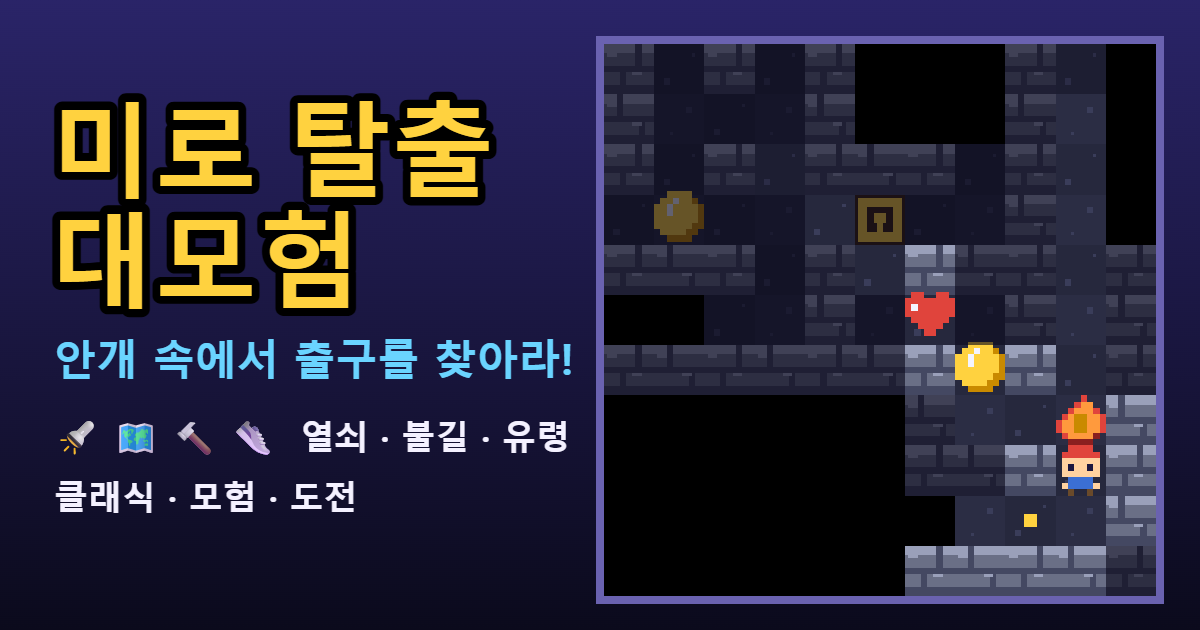
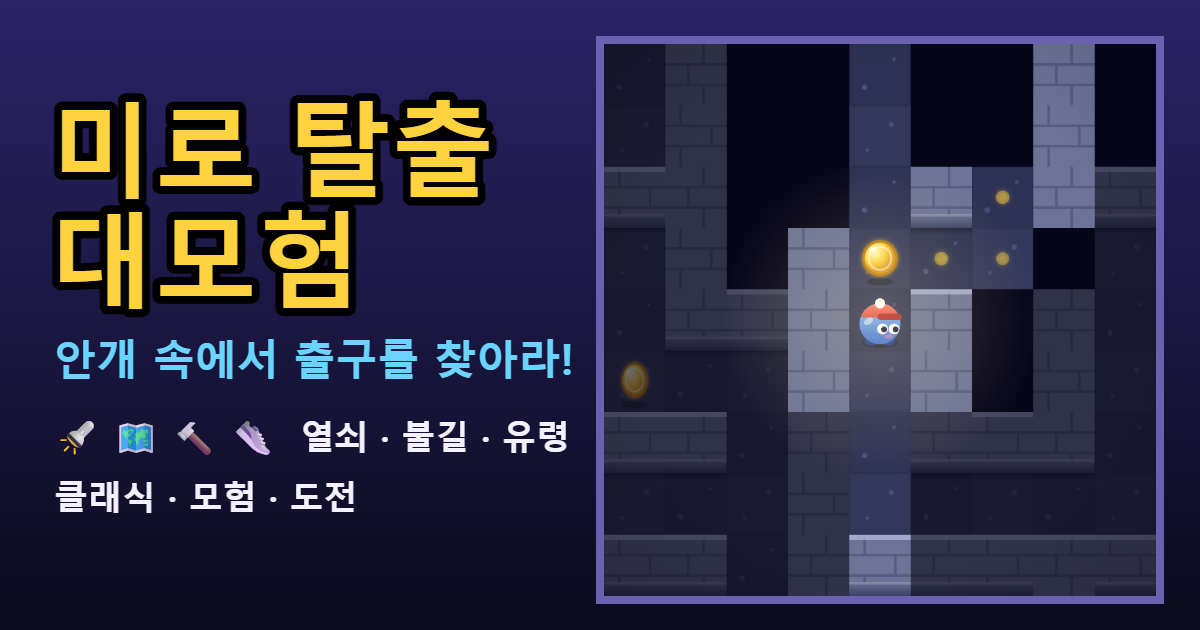
미로 탈출 대모험: 도트를 부드러운 입체 벡터 그래픽으로 교체, 미니맵 추가, 화면 9칸으로 확대

Changed region(s): [[0.4933, 0.0603, 0.9867, 0.9651], [0.925, 0.5429, 0.9867, 0.573]]

diff --git a/games/maze-quest/maze-quest.html b/games/maze-quest/maze-quest.html
@@ -52,7 +52,8 @@ a.hubLink{display:inline-flex;align-items:center;justify-content:center;min-heig
 #hearts span{margin:0 1px}
 #hearts .off{opacity:.25;filter:grayscale(1)}
 #boardWrap{position:relative;border:6px solid #6a62b0;border-radius:6px;background:#000;box-shadow:0 8px 0 rgba(0,0,0,.4);flex:none;line-height:0}
-#cv{width:100%;height:100%;image-rendering:pixelated;image-rendering:crisp-edges;touch-action:none}
+#cv{width:100%;height:100%;touch-action:none;border-radius:4px}
+#mini{position:absolute;right:6px;bottom:6px;background:rgba(10,8,30,.62);border:2px solid rgba(255,255,255,.35);border-radius:8px;box-shadow:0 2px 8px rgba(0,0,0,.5);touch-action:manipulation;cursor:pointer}
 #goal{position:absolute;left:0;right:0;top:6px;text-align:center;font-size:clamp(14px,4vw,18px);line-height:1.2;pointer-events:none;color:var(--yl);text-shadow:2px 2px 0 #000,-1px -1px 0 #000}
 #ctrl{display:flex;gap:14px;align-items:center;justify-content:center;flex-wrap:wrap;width:100%;max-width:640px}
 #items{display:flex;gap:8px}
@@ -128,7 +129,7 @@ a.hubLink{display:inline-flex;align-items:center;justify-content:center;min-heig
     <span class="pill" id="pCoin">🪙 0</span>
     <span class="pill" id="pKeys" hidden></span>
   </div>
-  <div id="boardWrap"><canvas id="cv" width="176" height="176"></canvas><div id="goal"></div></div>
+  <div id="boardWrap"><canvas id="cv" width="864" height="864"></canvas><canvas id="mini" title="미니맵 (누르면 크게/작게)"></canvas><div id="goal"></div></div>
   <div id="ctrl">
     <div id="items">
       <button class="it" id="iFlash" aria-label="손전등"><i>1</i>🔦<b>0</b></button>
@@ -162,7 +163,7 @@ a.hubLink{display:inline-flex;align-items:center;justify-content:center;min-heig
 const GAME_ID = 'maze-quest';
 const K = { hi: `retro_${GAME_ID}_hi`, adv: `retro_${GAME_ID}_adv`, cls: `retro_${GAME_ID}_cls`, mute: `retro_${GAME_ID}_mute` };
 const STEP = 1 / 60;
-const TS = 16, VIEW = 11, VPX = TS * VIEW;      // 타일 크기, 화면에 보이는 칸 수
+const TS = 48, VIEW = 9, VPX = TS * VIEW;       // 타일 크기, 화면에 보이는 칸 수(작은 폰에서도 길이 크게 보이게 9칸)
 const MOVE_T = 0.125, BOOT_MULT = 0.55;         // 한 칸 이동 시간, 번개 신발 배율
 const FLASH_TIME = 12, MAP_TIME = 5, BOOT_TIME = 8, FLASH_BONUS = 4, INVUL = 1.6;
 const MAX_HEARTS = 5, START_HEARTS = 3;
@@ -221,44 +222,135 @@ const Snd = {
 };
 function buzz(ms) { try { if (navigator.vibrate) navigator.vibrate(ms); } catch (e) { /* 무시 */ } }
 
-// ===== 도트 그림 (8x8을 2배로 확대) =====
-const PAL = { k: '#1b1740', w: '#f4f4ff', y: '#ffd23f', Y: '#c98a00', r: '#e0443c', R: '#8a1f1f', g: '#4fae3a', G: '#2f7d2a', b: '#3b6fd4', B: '#1f3f8a', c: '#6ad4ff', C: '#2a8ab8', o: '#ff9a3d', n: '#a8723f', N: '#6a4a2a', s: '#aab3c4', S: '#5a6272', p: '#ff7aa8', f: '#ffd2a0', P: '#a06aff' };
-const BITS = {
-  player: ['..rrrr..', '.rrrrrr.', '.ffffff.', '.fkffkf.', '.ffffff.', '..bbbb..', '.fbbbbf.', '..N..N..'],
-  ghost: ['..wwww..', '.wwwwww.', 'wwkwwkww', 'wwkwwkww', 'wwwwwwww', 'wwwwwwww', 'wwwwwwww', 'w.ww.ww.'],
-  ghost2: ['..wwww..', '.wwwwww.', 'wwkwwkww', 'wwkwwkww', 'wwwwwwww', 'wwwwwwww', 'wwwwwwww', 'ww.ww.ww'],
-  coin: ['..yyyy..', '.yywyyY.', 'yywyyyyY', 'yywyyyyY', 'yyyyyyyY', 'yyyyyyYY', '.yyyyYY.', '..YYYY..'],
-  heart: ['.rr..rr.', 'rrrrrrrr', 'rwrrrrrr', 'rrrrrrrr', '.rrrrrr.', '..rrrr..', '...rr...', '........'],
-  flash: ['.....yy.', '....yyyy', '..ssyyy.', '.sssss..', '.sSss...', 'sSss....', 'SSs.....', '.S......'],
-  map: ['.nnnnnn.', 'nfffffNn', 'nfrfffNn', 'nffgffNn', 'nfffrfNn', 'nffffgNn', 'nfffffNn', '.nnnnnn.'],
-  hammer: ['.ssss...', 'sSSSSs..', 'sSSSSs..', '.ssss...', '..nn....', '...nn...', '....nn..', '.....nn.'],
-  boots: ['..bb....', '..bb....', '..bb....', '..bbbb..', '.bbbbbb.', 'bbbbbbbb', 'BBBBBBBB', '........'],
-  key: ['.yyy....', 'y...y...', 'y...y...', '.yyy....', '..y.....', '..yyy...', '..y.....', '..yy....'],
-  fireA: ['...r....', '..roo...', '.rooor..', '.roYYor.', 'rooYYoor', 'rooYYoor', '.rooooR.', '..RRRR..'],
-  fireB: ['....r...', '...roo..', '..rooor.', '.roYYoor', 'rooYYoor', 'rooYYoor', '.rooooR.', '..RRRR..'],
-  fireOff: ['........', '........', '........', '...kk...', '..kSSk..', '..kSSk..', '.kSSSSk.', '..kkkk..']
-};
+// ===== 그림 (코드로 그린 부드러운 입체 벡터. 한 번만 미리 그려 둔다) =====
+const RS = 2;                                    // 그림 해상도 배율(선명하게)
+const mk = (draw, w = TS, h = TS) => { const c = document.createElement('canvas'); c.width = w * RS; c.height = h * RS; const g = c.getContext('2d'); g.scale(RS, RS); draw(g); return c; };
+const rr = (g, x, y, w, h, r) => { g.beginPath(); g.moveTo(x + r, y); g.arcTo(x + w, y, x + w, y + h, r); g.arcTo(x + w, y + h, x, y + h, r); g.arcTo(x, y + h, x, y, r); g.arcTo(x, y, x + w, y, r); g.closePath(); };
+const lg = (g, x0, y0, x1, y1, st) => { const q = g.createLinearGradient(x0, y0, x1, y1); st.forEach((s, i) => q.addColorStop(i / (st.length - 1), s)); return q; };
+const rg = (g, x, y, r0, r1, st) => { const q = g.createRadialGradient(x, y, r0, x, y, r1); st.forEach((s, i) => q.addColorStop(i / (st.length - 1), s)); return q; };
+const circ = (g, x, y, r) => { g.beginPath(); g.arc(x, y, r, 0, Math.PI * 2); };
+const ell = (g, x, y, rx, ry, rot) => { g.beginPath(); g.ellipse(x, y, rx, ry, rot || 0, 0, Math.PI * 2); };
+const shadowAt = (g, cx, cy, rx, ry) => { g.fillStyle = 'rgba(0,0,0,.3)'; ell(g, cx, cy, rx, ry); g.fill(); };
 const SPR = {};
-function makeSprite(rows, pal) { const c = document.createElement('canvas'); c.width = c.height = TS; const g = c.getContext('2d'); rows.forEach((row, y) => { for (let x = 0; x < 8; x++) { const ch = row[x]; if (ch !== '.') { g.fillStyle = pal[ch] || '#f0f'; g.fillRect(x * 2, y * 2, 2, 2); } } }); return c; }
-function buildSprites() {
-  Object.keys(BITS).forEach((k) => { SPR[k] = makeSprite(BITS[k], PAL); });
-  DOOR_COLORS.forEach((col, i) => { SPR['key' + i] = makeSprite(BITS.key, Object.assign({}, PAL, { y: col })); });
-  SPR.playerL = flipSprite(SPR.player);
+function drawPlayer(g) { // 귀여운 젤리 탐험가 (오른쪽을 봄)
+  shadowAt(g, 24, 42, 14, 4);
+  g.fillStyle = '#243a86'; ell(g, 17, 41, 5, 3); g.fill(); ell(g, 31, 41, 5, 3); g.fill();
+  g.fillStyle = lg(g, 0, 12, 0, 42, ['#8cc0ff', '#3b6fd4']); circ(g, 24, 27, 16); g.fill();
+  g.save(); circ(g, 24, 27, 16); g.clip(); g.fillStyle = lg(g, 0, 8, 0, 24, ['#ff8a78', '#e0443c']); g.fillRect(0, 0, 48, 22); g.restore();
+  g.fillStyle = '#b02a2a'; rr(g, 22, 19, 19, 5, 2.5); g.fill();
+  g.fillStyle = '#fff'; circ(g, 24, 11, 4); g.fill();
+  g.fillStyle = 'rgba(255,255,255,.5)'; ell(g, 15, 25, 4, 2.5, -0.6); g.fill();
+  g.fillStyle = '#fff'; circ(g, 26, 31, 4.2); g.fill(); circ(g, 35, 31, 4.2); g.fill();
+  g.fillStyle = '#1b1740'; circ(g, 27.2, 31.4, 2.3); g.fill(); circ(g, 36.2, 31.4, 2.3); g.fill();
+  g.fillStyle = 'rgba(255,120,150,.55)'; ell(g, 31, 37, 3, 1.8); g.fill();
 }
-function flipSprite(c) { const o = document.createElement('canvas'); o.width = o.height = TS; const g = o.getContext('2d'); g.translate(TS, 0); g.scale(-1, 1); g.drawImage(c, 0, 0); return o; }
+function drawGhost(g, f) {
+  g.shadowColor = 'rgba(190,210,255,.9)'; g.shadowBlur = 12;
+  g.fillStyle = lg(g, 0, 8, 0, 42, ['#ffffff', '#c9d2f5']);
+  g.beginPath(); g.moveTo(10, 24); g.arc(24, 24, 14, Math.PI, 0); g.lineTo(38, 40);
+  for (let i = 0; i < 3; i++) { const x1 = 38 - i * 28 / 3; g.quadraticCurveTo(x1 - 4.67, f ? 35 : 45, x1 - 9.33, 40); }
+  g.closePath(); g.fill(); g.shadowBlur = 0;
+  g.fillStyle = '#2a2260'; ell(g, 18.5, 23, 2.6, 3.8); g.fill(); ell(g, 29.5, 23, 2.6, 3.8); g.fill(); ell(g, 24, 31, 2.8, 2.2); g.fill();
+  g.fillStyle = 'rgba(255,255,255,.8)'; circ(g, 17.7, 21.6, 0.9); g.fill(); circ(g, 28.7, 21.6, 0.9); g.fill();
+}
+function drawCoin(g) {
+  g.shadowColor = 'rgba(255,200,40,.7)'; g.shadowBlur = 8;
+  g.fillStyle = rg(g, 20, 19, 2, 15, ['#fff6b0', '#ffd23f', '#d9961a']); circ(g, 24, 24, 14); g.fill(); g.shadowBlur = 0;
+  g.strokeStyle = '#b97a10'; g.lineWidth = 2; circ(g, 24, 24, 13.2); g.stroke();
+  g.strokeStyle = 'rgba(255,255,255,.55)'; g.lineWidth = 1.6; circ(g, 24, 24, 9); g.stroke();
+  g.fillStyle = 'rgba(255,255,255,.8)'; ell(g, 18, 17, 3, 1.6, -0.7); g.fill();
+}
+function drawHeart(g) {
+  g.shadowColor = 'rgba(255,60,90,.6)'; g.shadowBlur = 8;
+  g.fillStyle = lg(g, 0, 10, 0, 40, ['#ff8fa0', '#e0243c']); g.beginPath(); g.moveTo(24, 40); g.bezierCurveTo(3, 26, 10, 8, 24, 17); g.bezierCurveTo(38, 8, 45, 26, 24, 40); g.closePath(); g.fill(); g.shadowBlur = 0;
+  g.strokeStyle = '#a01428'; g.lineWidth = 2; g.stroke();
+  g.fillStyle = 'rgba(255,255,255,.65)'; ell(g, 15.5, 18, 3.4, 2, -0.7); g.fill();
+}
+function drawFlash(g) { // 손전등
+  g.save(); g.translate(24, 24); g.rotate(-0.5); g.translate(-24, -24);
+  g.fillStyle = 'rgba(255,240,150,.45)'; g.beginPath(); g.moveTo(11, 27); g.lineTo(0, 19); g.lineTo(0, 35); g.closePath(); g.fill();
+  g.fillStyle = lg(g, 0, 20, 0, 34, ['#dfe5f4', '#7d87a0']); rr(g, 18, 21, 24, 12, 4); g.fill();
+  g.fillStyle = lg(g, 0, 17, 0, 37, ['#aeb7cf', '#5e6884']); rr(g, 9, 17, 11, 20, 4); g.fill();
+  g.fillStyle = '#ffe36a'; ell(g, 10, 27, 2.6, 8); g.fill();
+  g.fillStyle = '#ffd23f'; rr(g, 26, 24, 8, 6, 3); g.fill();
+  g.restore();
+}
+function drawMap(g) { // 지도 조각
+  g.fillStyle = lg(g, 0, 10, 0, 38, ['#f8e8ba', '#dcbf7e']); rr(g, 9, 10, 30, 28, 4); g.fill();
+  g.fillStyle = '#c4a05a'; rr(g, 6, 9, 7, 30, 3.5); g.fill(); rr(g, 35, 9, 7, 30, 3.5); g.fill();
+  g.strokeStyle = '#e0443c'; g.lineWidth = 2.6; g.lineCap = 'round'; g.setLineDash([3, 4]); g.beginPath(); g.moveTo(16, 32); g.lineTo(24, 28); g.lineTo(26, 21); g.lineTo(32, 18); g.stroke(); g.setLineDash([]);
+  g.strokeStyle = '#e0443c'; g.lineWidth = 2.6; g.beginPath(); g.moveTo(30, 15); g.lineTo(35, 20); g.moveTo(35, 15); g.lineTo(30, 20); g.stroke();
+}
+function drawHammer(g) {
+  g.save(); g.translate(24, 24); g.rotate(-0.7); g.translate(-24, -24);
+  g.fillStyle = lg(g, 20, 0, 28, 0, ['#c98a4a', '#7a4a22']); rr(g, 21.5, 16, 5.5, 28, 2.5); g.fill();
+  g.fillStyle = lg(g, 0, 8, 0, 22, ['#eef1f8', '#8a93a8']); rr(g, 10, 8, 28, 13, 4); g.fill();
+  g.fillStyle = 'rgba(255,255,255,.55)'; rr(g, 13, 10, 22, 3, 1.5); g.fill();
+  g.restore();
+}
+function drawBoots(g) { // 번개 신발
+  g.fillStyle = lg(g, 0, 8, 0, 40, ['#7fb0ff', '#2f58b8']); rr(g, 14, 8, 15, 24, 4); g.fill(); rr(g, 14, 26, 28, 13, 6); g.fill();
+  g.fillStyle = '#dbe8ff'; rr(g, 13, 8, 17, 6, 3); g.fill();
+  g.fillStyle = '#fff'; rr(g, 12, 36, 31, 6, 3); g.fill();
+  g.fillStyle = '#ffd23f'; g.beginPath(); g.moveTo(38, 6); g.lineTo(33, 15); g.lineTo(37, 15); g.lineTo(34, 23); g.lineTo(43, 12); g.lineTo(38, 12); g.closePath(); g.fill();
+}
+function drawKey(g, col) {
+  g.save(); g.translate(24, 24); g.rotate(0.6); g.translate(-24, -24);
+  g.shadowColor = col; g.shadowBlur = 6;
+  g.strokeStyle = '#3a2a10'; g.lineWidth = 7.5; circ(g, 24, 13, 7); g.stroke(); g.fillStyle = '#3a2a10'; g.fillRect(21.2, 19, 5.6, 22); g.fillRect(25, 31, 8, 5.6); g.fillRect(25, 38, 6.4, 4);
+  g.shadowBlur = 0; g.strokeStyle = col; g.lineWidth = 4.5; circ(g, 24, 13, 7); g.stroke();
+  g.fillStyle = col; g.fillRect(22.2, 19, 3.6, 21); g.fillRect(25, 32, 7, 3.6); g.fillRect(25, 39, 5.4, 2.4);
+  g.fillStyle = 'rgba(255,255,255,.6)'; g.fillRect(22.6, 20, 1.2, 14);
+  g.restore();
+}
+function flame(g, k, glow) {
+  g.fillStyle = 'rgba(40,10,0,.4)'; ell(g, 24, 41, 14, 4.5); g.fill();
+  if (glow) { g.shadowColor = 'rgba(255,140,40,.95)'; g.shadowBlur = 16; }
+  g.fillStyle = lg(g, 0, 6, 0, 42, ['#ffd23f', '#ff7a2a', '#d92a1a']);
+  g.beginPath(); g.moveTo(24, 5 + k * 3); g.bezierCurveTo(30, 16, 41, 22, 37, 34); g.bezierCurveTo(35, 43, 13, 43, 11, 34); g.bezierCurveTo(7, 24, 18, 20, 24, 5 + k * 3); g.closePath(); g.fill(); g.shadowBlur = 0;
+  g.fillStyle = lg(g, 0, 18, 0, 40, ['#fffbe0', '#ffd23f']); g.beginPath(); g.moveTo(24, 19 + k * 2); g.bezierCurveTo(30, 26, 32, 31, 28, 37); g.bezierCurveTo(26, 41, 22, 41, 20, 37); g.bezierCurveTo(16, 31, 21, 26, 24, 19 + k * 2); g.closePath(); g.fill();
+}
+function drawVent(g) { // 꺼진 불길 구멍
+  g.fillStyle = '#1a1424'; rr(g, 8, 24, 32, 18, 7); g.fill(); g.strokeStyle = '#4a4260'; g.lineWidth = 2; g.stroke();
+  g.strokeStyle = '#3a3250'; g.lineWidth = 2; g.beginPath(); g.moveTo(15, 30); g.lineTo(33, 30); g.moveTo(15, 36); g.lineTo(33, 36); g.stroke();
+  g.fillStyle = 'rgba(255,90,40,.35)'; ell(g, 24, 33, 8, 3); g.fill();
+}
 const THEMES = [
-  { n: '정원 미로', wall: '#2f9a3f', hi: '#58c85a', lo: '#1d6a2a', floor: '#e8dfb0', alt: '#dcd29c', dot: '#c8bf88', sky: '#7ad0ff' },
-  { n: '돌 던전', wall: '#6a6f86', hi: '#9aa0ba', lo: '#444862', floor: '#2b2d44', alt: '#26283d', dot: '#3a3d5a', sky: '#14122b' },
-  { n: '얼음 동굴', wall: '#7ac8f0', hi: '#d8f4ff', lo: '#3a8ab8', floor: '#1c2f52', alt: '#192a4a', dot: '#2a4372', sky: '#0a1830' },
-  { n: '용암 굴', wall: '#7a3030', hi: '#b8503e', lo: '#3a1414', floor: '#2a1414', alt: '#241010', dot: '#4a1f1a', sky: '#1a0808' }
+  { n: '정원 미로', wall: '#3f9d5a', hi: '#8ce09a', lo: '#256b40', floor: '#f2ead2', alt: '#ebe1c4', dot: '#d3c8a4', sky: '#9bdcf5' },
+  { n: '돌 던전', wall: '#6c7396', hi: '#a9b1d6', lo: '#3c4263', floor: '#33375a', alt: '#2d3153', dot: '#474c78', sky: '#161430' },
+  { n: '얼음 동굴', wall: '#86cdf0', hi: '#eafaff', lo: '#4590c0', floor: '#223a66', alt: '#1e3460', dot: '#37598f', sky: '#0b1a3a' },
+  { n: '용암 굴', wall: '#8a3a3a', hi: '#d0704f', lo: '#481a1a', floor: '#33191a', alt: '#2c1516', dot: '#572524', sky: '#1d0909' }
 ];
 const TILES = [];
+function buildSprites() {
+  SPR.player = mk(drawPlayer);
+  SPR.playerL = mk((g) => { g.translate(TS, 0); g.scale(-1, 1); drawPlayer(g); });
+  SPR.ghost = mk((g) => drawGhost(g, 0)); SPR.ghost2 = mk((g) => drawGhost(g, 1));
+  SPR.coin = mk(drawCoin); SPR.heart = mk(drawHeart); SPR.flash = mk(drawFlash); SPR.map = mk(drawMap); SPR.hammer = mk(drawHammer); SPR.boots = mk(drawBoots);
+  DOOR_COLORS.forEach((col, i) => { SPR['key' + i] = mk((g) => drawKey(g, col)); });
+  SPR.fireA = mk((g) => flame(g, 0, true)); SPR.fireB = mk((g) => flame(g, 1, true));
+  SPR.fireW = mk((g) => { g.translate(24, 42); g.scale(0.5, 0.5); g.translate(-24, -42); flame(g, 0, false); });
+  SPR.fireOff = mk(drawVent);
+  SPR.shade = mk((g) => { g.fillStyle = lg(g, 0, 0, 0, 16, ['rgba(0,0,0,.32)', 'rgba(0,0,0,0)']); g.fillRect(0, 0, TS, 16); });
+}
 function buildTiles() {
   THEMES.forEach((th, ti) => {
-    const mk = (draw) => { const c = document.createElement('canvas'); c.width = c.height = TS; draw(c.getContext('2d')); return c; };
-    const wall = (variant) => mk((g) => { g.fillStyle = th.wall; g.fillRect(0, 0, TS, TS); g.fillStyle = th.hi; g.fillRect(0, 0, TS, 3); g.fillStyle = th.lo; g.fillRect(0, TS - 3, TS, 3); g.fillStyle = th.lo; g.fillRect(0, 7, TS, 2); g.fillRect(variant ? 4 : 10, 0, 2, 7); g.fillRect(variant ? 11 : 5, 9, 2, 5); g.fillStyle = th.hi; g.fillRect(1, 3, 3, 1); g.fillRect(9, 9, 3, 1); });
-    const floor = (variant) => mk((g) => { g.fillStyle = variant ? th.alt : th.floor; g.fillRect(0, 0, TS, TS); g.fillStyle = th.dot; g.fillRect(variant ? 3 : 10, variant ? 11 : 4, 2, 2); g.fillRect(variant ? 12 : 5, variant ? 3 : 12, 1, 1); });
-    TILES[ti] = { wall: [wall(0), wall(1)], floor: [floor(0), floor(1)] };
+    const floor = (variant) => mk((g) => {
+      g.fillStyle = variant ? th.alt : th.floor; g.fillRect(0, 0, TS, TS);
+      g.strokeStyle = 'rgba(0,0,0,.07)'; g.lineWidth = 1; g.strokeRect(0.5, 0.5, TS - 1, TS - 1);
+      g.fillStyle = th.dot; circ(g, variant ? 12 : 33, variant ? 34 : 15, 2.2); g.fill(); circ(g, variant ? 35 : 14, variant ? 12 : 35, 1.4); g.fill();
+    });
+    const wall = (v, lip, top) => mk((g) => {
+      g.fillStyle = th.wall; g.fillRect(0, 0, TS, TS);
+      if (ti === 0) { g.fillStyle = th.hi; g.globalAlpha = 0.3; [[10, 12], [32, 24], [18, 34]].forEach(([x, y]) => { ell(g, x + (v ? 5 : 0), y, 6, 3.6, v ? 0.6 : -0.5); g.fill(); }); g.fillStyle = th.lo; g.globalAlpha = 0.3; [[34, 10], [12, 26]].forEach(([x, y]) => { ell(g, x, y + (v ? 4 : 0), 5, 3, 0.4); g.fill(); }); g.globalAlpha = 1; }
+      else if (ti === 1) { g.strokeStyle = th.lo; g.globalAlpha = 0.45; g.lineWidth = 2; g.beginPath(); g.moveTo(0, 16); g.lineTo(TS, 16); g.moveTo(0, 32); g.lineTo(TS, 32); const o = v ? 12 : 30; g.moveTo(o, 0); g.lineTo(o, 16); g.moveTo(TS - o, 16); g.lineTo(TS - o, 32); g.moveTo(o, 32); g.lineTo(o, TS); g.stroke(); g.globalAlpha = 1; }
+      else if (ti === 2) { g.strokeStyle = '#fff'; g.globalAlpha = 0.28; g.lineWidth = 3; g.lineCap = 'round'; g.beginPath(); g.moveTo(v ? 8 : 20, 36); g.lineTo(v ? 24 : 36, 12); g.moveTo(v ? 30 : 10, 40); g.lineTo(v ? 40 : 18, 28); g.stroke(); g.globalAlpha = 1; }
+      else { g.strokeStyle = '#ff8a3a'; g.globalAlpha = 0.7; g.lineWidth = 2; g.lineJoin = 'round'; g.beginPath(); g.moveTo(v ? 6 : 40, 8); g.lineTo(v ? 18 : 28, 20); g.lineTo(v ? 14 : 32, 30); g.lineTo(v ? 28 : 18, 40); g.stroke(); g.globalAlpha = 1; }
+      if (top) { g.fillStyle = th.hi; g.globalAlpha = 0.85; g.fillRect(0, 0, TS, 4); g.globalAlpha = 1; }
+      if (lip) { g.fillStyle = lg(g, 0, TS - 11, 0, TS, [th.wall, th.lo]); g.fillRect(0, TS - 11, TS, 11); g.fillStyle = 'rgba(255,255,255,.18)'; g.fillRect(0, TS - 11, TS, 2); }
+    });
+    const ws = []; for (let k = 0; k < 8; k++) ws.push(wall(k & 1, (k >> 1) & 1, (k >> 2) & 1));
+    TILES[ti] = { wall: ws, floor: [floor(0), floor(1)] };
   });
 }
 
@@ -333,7 +425,7 @@ const G = {
   flashT: 0, mapT: 0, bootT: 0, armed: false, invul: 0, seen: null, vis: null, R: 99, auto: [], held: -1, keysDown: [], trail: [], particles: [], shake: 0, acc: 0, last: 0,
   depth: 1, clsCells: 12, clsFog: false, stars: 0, newBest: false, mapPath: null, hurtFlash: 0, wasWake: false
 };
-const cv = $('cv'), g2 = cv.getContext('2d'); g2.imageSmoothingEnabled = false;
+const cv = $('cv'), g2 = cv.getContext('2d'); cv.width = cv.height = VPX * RS; G.miniBig = false;
 
 function newLevel(spec, seed) {
   const LV = buildLevel(spec, seed); G.LV = LV; G.seen = new Uint8Array(LV.W * LV.H); G.vis = new Uint8Array(LV.W * LV.H);
@@ -406,7 +498,7 @@ function hurt(src) {
   syncUI(); computeVis();
   if (G.hearts <= 0) fail();
 }
-function burst(x, y, color, n) { for (let i = 0; i < n; i++) G.particles.push({ x: (x + 0.5) * TS, y: (y + 0.5) * TS, vx: (Math.random() - 0.5) * 70, vy: -20 - Math.random() * 50, life: 0.5 + Math.random() * 0.3, c: color }); }
+function burst(x, y, color, n) { for (let i = 0; i < n; i++) G.particles.push({ x: (x + 0.5) * TS, y: (y + 0.5) * TS, vx: (Math.random() - 0.5) * 200, vy: -60 - Math.random() * 140, life: 0.5 + Math.random() * 0.3, c: color }); }
 
 // ===== 아이템 사용 =====
 function useItem(k) {
@@ -474,42 +566,76 @@ function update(dt) {
   for (const f of LV.fires) if (f.idx === P.y * LV.W + P.x && !P.mv && fireState(f, G.t) === 2) hurt('fire');
   updateFx(dt); syncHud();
 }
-function updateFx(dt) { G.particles.forEach((p) => { p.x += p.vx * dt; p.y += p.vy * dt; p.vy += 120 * dt; p.life -= dt; }); G.particles = G.particles.filter((p) => p.life > 0); }
+function updateFx(dt) { G.particles.forEach((p) => { p.x += p.vx * dt; p.y += p.vy * dt; p.vy += 340 * dt; p.life -= dt; }); G.particles = G.particles.filter((p) => p.life > 0); }
 
 // ===== 그리기 =====
+const mini = $('mini'), gm = mini.getContext('2d');
+function drawMini() {
+  const LV = G.LV; if (!LV) return; const W = LV.W, H = LV.H, th = THEMES[LV.spec.theme], big = G.miniBig;
+  const cs = Math.max(2, Math.floor((big ? 240 : 132) / Math.max(W, H))), mw = W * cs, mh = H * cs;
+  if (mini.width !== mw || mini.height !== mh) { mini.width = mw; mini.height = mh; }
+  mini.style.width = (big ? 200 : 104) + 'px'; mini.style.height = Math.round((big ? 200 : 104) * mh / mw) + 'px';
+  gm.clearRect(0, 0, mw, mh);
+  for (let y = 0; y < H; y++) for (let x = 0; x < W; x++) {
+    const i = y * W + x; if (!G.seen[i]) continue;
+    gm.fillStyle = LV.wall[i] ? th.wall : '#f4f1ff'; gm.globalAlpha = LV.wall[i] ? 0.95 : (G.vis[i] ? 0.85 : 0.5); gm.fillRect(x * cs, y * cs, cs, cs);
+  }
+  gm.globalAlpha = 1;
+  const blink = (Math.sin(G.t * 6) + 1) / 2, ex = (LV.exit % W + 0.5) * cs, ey = (((LV.exit / W) | 0) + 0.5) * cs;
+  gm.fillStyle = '#6ad4ff'; gm.shadowColor = '#6ad4ff'; gm.shadowBlur = 6; gm.beginPath(); gm.arc(ex, ey, cs * (1.1 + blink * 0.7), 0, 7); gm.fill(); gm.shadowBlur = 0;
+  gm.strokeStyle = '#fff'; gm.lineWidth = 1; gm.stroke();
+  const P = G.P; let px = P.x, py = P.y; if (P.mv) { px = P.mv.fx + (P.mv.tx - P.mv.fx) * P.mv.t; py = P.mv.fy + (P.mv.ty - P.mv.fy) * P.mv.t; }
+  gm.fillStyle = '#ffd23f'; gm.strokeStyle = '#7a4a00'; gm.lineWidth = 1; gm.beginPath(); gm.arc((px + 0.5) * cs, (py + 0.5) * cs, cs * 1.15, 0, 7); gm.fill(); gm.stroke();
+}
 function drawGame() {
-  const g = g2, LV = G.LV; if (!LV) return; const P = G.P, W = LV.W, H = LV.H, th = THEMES[LV.spec.theme], tl = TILES[LV.spec.theme];
+  const g = g2, LV = G.LV; if (!LV) return; g.setTransform(RS, 0, 0, RS, 0, 0);
+  const P = G.P, W = LV.W, H = LV.H, th = THEMES[LV.spec.theme], tl = TILES[LV.spec.theme];
   let px = P.x, py = P.y; if (P.mv) { const k = P.mv.t; px = P.mv.fx + (P.mv.tx - P.mv.fx) * k; py = P.mv.fy + (P.mv.ty - P.mv.fy) * k; }
   let ox = W * TS <= VPX ? Math.round((VPX - W * TS) / 2) : clamp(Math.round(VPX / 2 - (px + 0.5) * TS), VPX - W * TS, 0), oy = H * TS <= VPX ? Math.round((VPX - H * TS) / 2) : clamp(Math.round(VPX / 2 - (py + 0.5) * TS), VPX - H * TS, 0);
-  if (G.shake > 0) { ox += Math.round((Math.random() - 0.5) * 6); oy += Math.round((Math.random() - 0.5) * 6); }
+  if (G.shake > 0) { ox += Math.round((Math.random() - 0.5) * 8); oy += Math.round((Math.random() - 0.5) * 8); }
   g.fillStyle = th.sky; g.fillRect(0, 0, VPX, VPX);
   const x0 = Math.max(0, Math.floor(-ox / TS)), y0 = Math.max(0, Math.floor(-oy / TS)), x1 = Math.min(W - 1, Math.ceil((VPX - ox) / TS)), y1 = Math.min(H - 1, Math.ceil((VPX - oy) / TS));
-  const t = G.t;
+  const t = G.t, isW = (x, y) => (x < 0 || y < 0 || x >= W || y >= H ? true : LV.wall[y * W + x] === 1 || LV.wall[y * W + x] === true);
   for (let y = y0; y <= y1; y++) for (let x = x0; x <= x1; x++) {
     const i = y * W + x; if (!G.seen[i]) continue; const dx = x * TS + ox, dy = y * TS + oy, v = (x * 7 + y * 13) & 1;
-    g.drawImage(LV.wall[i] ? tl.wall[v] : tl.floor[v], dx, dy);
-    if (!LV.wall[i]) {
-      if (i === LV.exit) { const k = (Math.sin(t * 5) + 1) / 2; g.fillStyle = '#0b3a5a'; g.fillRect(dx + 1, dy + 1, 14, 14); g.fillStyle = k > 0.5 ? '#6ad4ff' : '#bff0ff'; g.fillRect(dx + 3, dy + 3, 10, 10); g.fillStyle = '#fff'; g.fillRect(dx + 6, dy + 6, 4, 4); g.fillStyle = '#2a8ab8'; g.fillRect(dx + 3 + (k > 0.5 ? 0 : 7), dy + 3, 3, 3); }
-      const door = LV.doors.find((q) => q.idx === i && !q.open);
-      if (door) { g.fillStyle = '#3a2410'; g.fillRect(dx, dy, TS, TS); g.fillStyle = DOOR_COLORS[door.c]; g.fillRect(dx + 1, dy + 1, 14, 14); g.fillStyle = '#3a2410'; g.fillRect(dx + 4, dy + 4, 8, 8); g.fillStyle = DOOR_COLORS[door.c]; g.fillRect(dx + 6, dy + 6, 4, 3); g.fillRect(dx + 7, dy + 9, 2, 3); }
-      if (G.mapPath && G.mapPath.has(i) && ((Math.floor(t * 6) + x + y) % 2 === 0)) { g.fillStyle = '#ffd23f'; g.fillRect(dx + 6, dy + 6, 4, 4); }
+    if (LV.wall[i]) { g.drawImage(tl.wall[v | (isW(x, y + 1) ? 0 : 2) | (isW(x, y - 1) ? 0 : 4)], dx, dy, TS, TS); continue; }
+    g.drawImage(tl.floor[v], dx, dy, TS, TS);
+    if (isW(x, y - 1)) g.drawImage(SPR.shade, dx, dy, TS, 16);
+    if (i === LV.exit) { // 출구: 빛나는 소용돌이
+      const cx = dx + TS / 2, cy = dy + TS / 2; g.fillStyle = rg(g, cx, cy, 2, TS * 0.8, ['rgba(120,220,255,.95)', 'rgba(120,220,255,0)']); g.fillRect(dx - 10, dy - 10, TS + 20, TS + 20);
+      g.save(); g.translate(cx, cy); g.rotate(t * 2); g.strokeStyle = '#6ad4ff'; g.lineWidth = 3; g.setLineDash([10, 6]); circ(g, 0, 0, 17); g.stroke(); g.rotate(-t * 4); g.strokeStyle = '#fff'; g.lineWidth = 2; g.setLineDash([6, 8]); circ(g, 0, 0, 10); g.stroke(); g.setLineDash([]); g.restore();
+      g.fillStyle = rg(g, cx, cy, 0, 8, ['#fff', '#6ad4ff']); circ(g, cx, cy, 7 + Math.sin(t * 5)); g.fill();
     }
+    const door = LV.doors.find((q) => q.idx === i && !q.open);
+    if (door) { const c = DOOR_COLORS[door.c]; g.shadowColor = c; g.shadowBlur = 8; g.fillStyle = lg(g, 0, dy, 0, dy + TS, ['#7a4e26', '#4a2c14']); rr(g, dx + 3, dy + 2, TS - 6, TS - 3, 8); g.fill(); g.shadowBlur = 0; g.fillStyle = c; rr(g, dx + 9, dy + 8, TS - 18, TS - 15, 5); g.fill(); g.fillStyle = '#3a2410'; circ(g, dx + TS / 2, dy + 22, 3.8); g.fill(); g.fillRect(dx + TS / 2 - 1.6, dy + 23, 3.2, 8); }
+    if (G.mapPath && G.mapPath.has(i)) { const k = 0.5 + 0.5 * Math.sin(t * 6 - (x + y) * 0.9); g.fillStyle = `rgba(255,210,63,${0.35 + k * 0.6})`; g.shadowColor = '#ffd23f'; g.shadowBlur = 8; circ(g, dx + TS / 2, dy + TS / 2, 5 + k * 2.5); g.fill(); g.shadowBlur = 0; }
   }
   // 아이템, 불길
-  for (const [i, it] of LV.items) { const x = i % W, y = (i / W) | 0; if (!G.seen[i]) continue; const dx = x * TS + ox, dy = y * TS + oy + Math.round(Math.sin(t * 4 + i) * 1); g.drawImage(it.t === 'key' ? SPR['key' + it.c] : SPR[it.t === 'flash' ? 'flash' : it.t === 'boots' ? 'boots' : it.t], dx, dy); }
-  for (const f of LV.fires) { if (!G.seen[f.idx]) continue; const s = fireState(f, t), dx = f.x * TS + ox, dy = f.y * TS + oy; if (s === 2) g.drawImage((Math.floor(t * 8) & 1) ? SPR.fireA : SPR.fireB, dx, dy); else if (s === 1) { if (Math.floor(t * 10) & 1) g.drawImage(SPR.fireB, dx, dy); else g.drawImage(SPR.fireOff, dx, dy); } else g.drawImage(SPR.fireOff, dx, dy); }
-  for (const gh of LV.ghosts) { if (!G.vis[gh.y * W + gh.x]) continue; g.drawImage((Math.floor(t * 4) & 1) ? SPR.ghost : SPR.ghost2, gh.x * TS + ox, gh.y * TS + oy - 1 + Math.round(Math.sin(t * 5) * 1)); }
-  if (!(G.invul > 0 && Math.floor(t * 14) % 2)) g.drawImage(P.face < 0 ? SPR.playerL : SPR.player, Math.round(px * TS + ox), Math.round(py * TS + oy) - (P.mv ? (Math.floor(P.mv.t * 4) & 1) : 0));
-  if (G.armed) { g.fillStyle = '#ffd23f'; g.fillRect(Math.round(px * TS + ox) + 6, Math.round(py * TS + oy) - 4, 4, 3); }
-  // 안개
-  if (G.R < 50) for (let y = y0; y <= y1; y++) for (let x = x0; x <= x1; x++) {
-    const i = y * W + x, dx = x * TS + ox, dy = y * TS + oy;
-    if (!G.seen[i]) { g.fillStyle = '#000'; g.fillRect(dx, dy, TS, TS); } else if (!G.vis[i]) { g.fillStyle = 'rgba(8,6,24,.62)'; g.fillRect(dx, dy, TS, TS); }
-    else { const d = Math.hypot(x - px, y - py); if (d > G.R - 1.3) { g.fillStyle = 'rgba(8,6,24,.3)'; g.fillRect(dx, dy, TS, TS); } }
+  for (const [i, it] of LV.items) {
+    const x = i % W, y = (i / W) | 0; if (!G.seen[i]) continue; const dx = x * TS + ox, dy = y * TS + oy + Math.sin(t * 4 + i) * 2;
+    shadowAt(g, dx + TS / 2, y * TS + oy + TS - 6, 10, 3);
+    if (it.t === 'coin') { const w = TS * Math.max(0.22, Math.abs(Math.cos(t * 3 + i))); g.drawImage(SPR.coin, dx + (TS - w) / 2, dy, w, TS); }
+    else g.drawImage(it.t === 'key' ? SPR['key' + it.c] : SPR[it.t], dx, dy, TS, TS);
   }
-  G.particles.forEach((p) => { g.fillStyle = p.c; g.fillRect(Math.round(p.x + ox), Math.round(p.y + oy), 2, 2); });
-  if (G.hurtFlash > 0) { g.fillStyle = `rgba(255,60,60,${G.hurtFlash * 1.2})`; g.fillRect(0, 0, VPX, VPX); }
+  for (const f of LV.fires) { if (!G.seen[f.idx]) continue; const s = fireState(f, t), dx = f.x * TS + ox, dy = f.y * TS + oy; if (s === 2) g.drawImage((Math.floor(t * 8) & 1) ? SPR.fireA : SPR.fireB, dx, dy, TS, TS); else if (s === 1) { g.drawImage(SPR.fireOff, dx, dy, TS, TS); if (Math.floor(t * 10) & 1) g.drawImage(SPR.fireW, dx, dy, TS, TS); } else g.drawImage(SPR.fireOff, dx, dy, TS, TS); }
+  for (const gh of LV.ghosts) { if (!G.vis[gh.y * W + gh.x]) continue; g.globalAlpha = 0.9; g.drawImage((Math.floor(t * 4) & 1) ? SPR.ghost : SPR.ghost2, gh.x * TS + ox, gh.y * TS + oy - 3 + Math.sin(t * 5) * 3, TS, TS); g.globalAlpha = 1; }
+  const bob = P.mv ? Math.abs(Math.sin(P.mv.t * Math.PI)) * 4 : 0;
+  if (!(G.invul > 0 && Math.floor(t * 14) % 2)) g.drawImage(P.face < 0 ? SPR.playerL : SPR.player, Math.round(px * TS + ox), Math.round(py * TS + oy - bob), TS, TS);
+  if (G.armed) g.drawImage(SPR.hammer, Math.round(px * TS + ox) + 12, Math.round(py * TS + oy) - 16, 26, 26);
+  // 안개: 못 본 곳은 까맣게, 본 적 있는 곳은 어둡게, 내 주변은 은은히 밝게
+  if (G.R < 50) {
+    for (let y = y0; y <= y1; y++) for (let x = x0; x <= x1; x++) {
+      const i = y * W + x, dx = x * TS + ox, dy = y * TS + oy;
+      if (!G.seen[i]) { g.fillStyle = '#06051a'; g.fillRect(dx, dy, TS, TS); } else if (!G.vis[i]) { g.fillStyle = 'rgba(8,6,24,.6)'; g.fillRect(dx, dy, TS, TS); }
+    }
+    const cx = (px + 0.5) * TS + ox, cy = (py + 0.5) * TS + oy, r = Math.max(2.5, G.R) * TS;
+    g.fillStyle = rg(g, cx, cy, r * 0.45, r * 1.1, ['rgba(6,5,26,0)', 'rgba(6,5,26,.38)']); g.fillRect(0, 0, VPX, VPX);
+    g.fillStyle = rg(g, cx, cy, 0, TS * 2.6, ['rgba(255,236,170,.22)', 'rgba(255,236,170,0)']); g.fillRect(0, 0, VPX, VPX);
+  }
+  G.particles.forEach((p) => { g.globalAlpha = clamp(p.life * 2, 0, 1); g.fillStyle = p.c; circ(g, p.x + ox, p.y + oy, 3); g.fill(); }); g.globalAlpha = 1;
+  if (G.hurtFlash > 0) { g.fillStyle = `rgba(255,60,60,${Math.min(0.6, G.hurtFlash * 1.2)})`; g.fillRect(0, 0, VPX, VPX); }
   if (G.flashT > 0 && G.flashT < 3 && (Math.floor(t * 6) & 1)) { g.fillStyle = 'rgba(255,230,120,.12)'; g.fillRect(0, 0, VPX, VPX); }
+  drawMini();
 }
 
 // ===== 화면과 화면 요소 =====
@@ -528,7 +654,7 @@ function syncUI() {
 function layout() {
   const land = innerWidth > innerHeight * 1.15 && innerHeight < 760; $('scGame').classList.toggle('land', land);
   const topH = land ? 0 : $('top').offsetHeight + $('hud').offsetHeight + $('ctrl').offsetHeight + 80, availW = land ? innerWidth - 290 : innerWidth - 24, availH = land ? innerHeight - 30 : innerHeight - topH;
-  let size = Math.max(150, Math.min(availW, availH, 880)); const s = size / VPX; if (s >= 2) size = Math.floor(s) * VPX; $('boardWrap').style.width = $('boardWrap').style.height = size + 'px';
+  let size = Math.max(150, Math.min(availW, availH, 880)); $('boardWrap').style.width = $('boardWrap').style.height = size + 'px';
 }
 function showTitle() {
   G.state = 'TITLE'; showScreen('title'); Snd.bgm(-1); const adv = Object.values(advSave.stars).reduce((a, b) => a + b, 0);
@@ -602,6 +728,7 @@ function bindUI() {
     if (!G.seen[idx]) { toast('아직 못 본 곳이에요'); return; }
     const path = bfsKnown(idx); if (!path || !path.length) { if (!path) toast('그쪽으로는 길이 없어요'); return; } G.auto = path;
   });
+  mini.addEventListener('pointerdown', (e) => { e.stopPropagation(); G.miniBig = !G.miniBig; });
   const hold = (id, d) => { const b = $(id); b.addEventListener('pointerdown', (e) => { e.preventDefault(); Snd.init(); G.held = d; b.classList.add('on'); }); const off = () => { if (G.held === d) G.held = -1; b.classList.remove('on'); }; ['pointerup', 'pointercancel', 'pointerleave'].forEach((n) => b.addEventListener(n, off)); };
   hold('dU', 0); hold('dR', 1); hold('dD', 2); hold('dL', 3);
   const map = { ArrowUp: 0, KeyW: 0, ArrowRight: 1, KeyD: 1, ArrowDown: 2, KeyS: 2, ArrowLeft: 3, KeyA: 3 };
